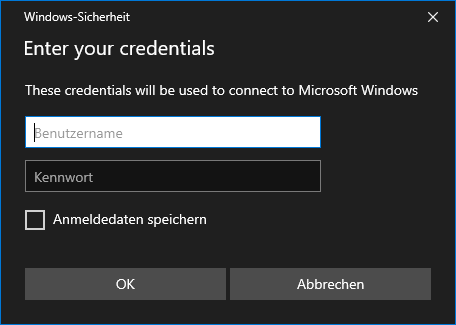
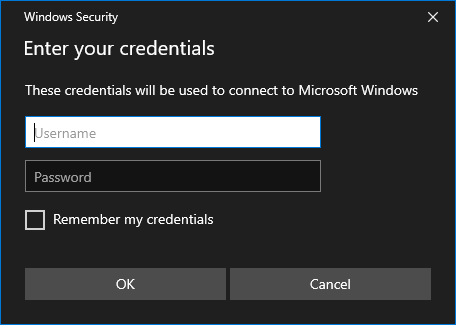
updated screenshot

diff --git a/README.md b/README.md
@@ -4,10 +4,6 @@ This powershell script opens a realistic looking window thats asking for your wi
 ## Screenshots
 ![Window English](https://github.com/lu-ka/PowerPhish/blob/main/Screenshots/window_english.PNG)
 
-Note: The german placeholder text "Benutzername" and "Passwort" will be in the language of the windows installation that you run this script on.
-
-![Window German](https://github.com/lu-ka/PowerPhish/blob/main/Screenshots/window_german.PNG)
-
 ## Kudos
 This script is based on https://github.com/Dviros/CredsLeaker
 
